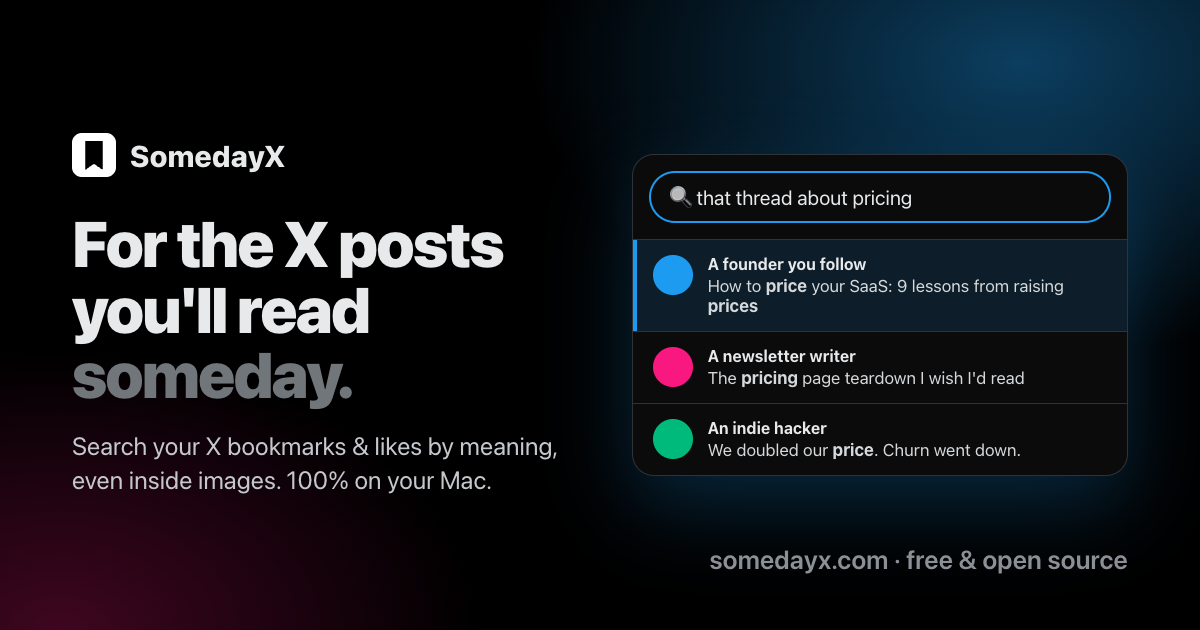
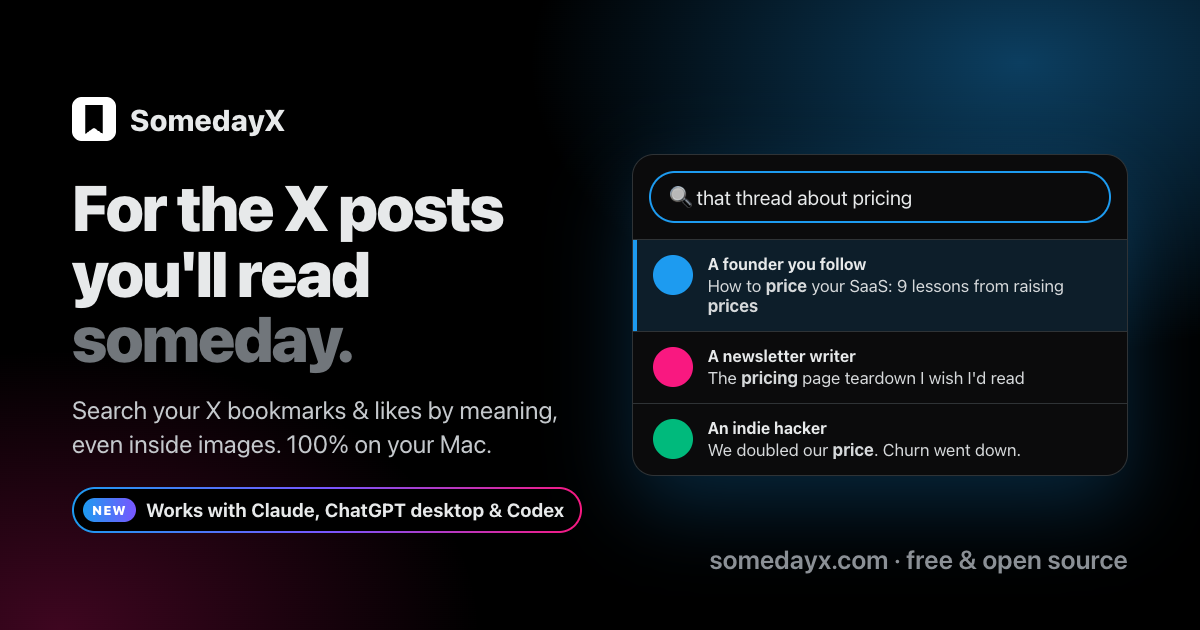
Make AI-app support prominent: hero pill, 'Ask your AI about your bookmarks' section with example chat, nav link, privacy line, home preview card, README

Changed region(s): [[0.0617, 0.1508, 0.4625, 0.6635], [0.0617, 0.6937, 0.4933, 0.8444]]

diff --git a/site/index.html b/site/index.html
@@ -172,6 +172,32 @@
   details[open] summary::after { content: "–"; }
   details p { color: var(--muted); margin-top: 10px; max-width: 46em; }
 
+  /* AI apps */
+  .aipill { display: inline-flex; align-items: center; gap: 10px; margin-top: 18px; max-width: 100%;
+            padding: 8px 14px 8px 8px; border-radius: 999px; font-size: 14.5px; color: var(--text);
+            background: linear-gradient(#000, #000) padding-box, linear-gradient(90deg, var(--blue), #7856ff, #f91880) border-box;
+            border: 1.5px solid transparent; transition: transform .2s; }
+  .aipill:hover { transform: translateY(-1px); }
+  .aipill .new { flex: none; font-size: 11px; font-weight: 900; letter-spacing: .06em; padding: 3px 8px; border-radius: 999px;
+                 background: linear-gradient(90deg, var(--blue), #7856ff); color: #fff; }
+  .aipill b { font-weight: 800; }
+  .apps { display: flex; flex-wrap: wrap; gap: 8px; margin-top: 24px; }
+  .apps span { padding: 7px 13px; border-radius: 999px; background: var(--raised); border: 1px solid var(--line); font-weight: 700; font-size: 14px; }
+  .chat { background: #0b0b0c; border: 1px solid var(--line); border-radius: 18px; padding: 20px; display: grid; gap: 14px;
+          box-shadow: 0 30px 80px rgba(120,86,255,.18); align-self: start; }
+  .chat .you { justify-self: end; max-width: 85%; background: var(--blue); color: #fff; padding: 10px 14px; border-radius: 16px 16px 4px 16px; font-size: 15px; }
+  .chat .tool { justify-self: start; font: 12.5px ui-monospace, SFMono-Regular, Menlo, monospace; color: var(--muted);
+                padding: 5px 10px; border: 1px dashed var(--line); border-radius: 8px; }
+  .chat .tool b { color: var(--blue); font-weight: 600; }
+  .chat .ai { color: #d6d9db; font-size: 15px; }
+  .chat .ai p + p { margin-top: 8px; }
+  .chat .src { display: grid; gap: 6px; margin-top: 10px; }
+  .chat .src span { font-size: 13px; color: var(--muted); padding: 7px 10px; background: var(--raised); border-radius: 10px; }
+  .chat .src b { color: var(--text); }
+  .note { color: var(--muted); font-size: 14.5px; margin-top: 18px; }
+  .note b { color: var(--text); }
+  .more-link { display: inline-block; margin-top: 18px; color: var(--blue); font-weight: 700; }
+
   footer { padding: 50px 0 60px; color: var(--muted); font-size: 14px; border-top: 1px solid #111; }
   footer .wrap { display: flex; justify-content: space-between; gap: 20px; flex-wrap: wrap; }
   footer a { color: var(--text); }
@@ -201,6 +227,7 @@
     <a class="logo" href="#"><svg viewBox="0 0 100 100"><rect width="100" height="100" rx="22" fill="#fff"/><path d="M30 18h40v66L50 70 30 84z" fill="#000"/></svg>SomedayX</a>
     <div class="navlinks">
       <a class="hide" href="#how">How it works</a>
+      <a class="hide" href="#ai">AI apps</a>
       <a class="hide" href="#wrapped">Wrapped</a>
       <a href="#install">Install</a>
       <a class="launch" href="https://github.com/priyank-saarthios-ai/somedayx" data-umami-event="github" data-umami-event-place="nav">GitHub</a>
@@ -221,6 +248,7 @@
         <a class="btn ghost pre" href="#how">See how it works</a>
       </div>
       <p class="fine">Free &amp; open source · 100% on your Mac · no account, no cloud, no tracking</p>
+      <a class="aipill" href="#ai" data-umami-event="ai-pill"><span class="new">NEW</span><span>Works with <b>Claude, ChatGPT desktop, Codex &amp; Cursor</b> →</span></a>
     </div>
 
     <div class="stage" aria-hidden="true">
@@ -246,6 +274,37 @@
       <div class="card"><div class="em">⌥⌥</div><h3>Double-tap Option, anywhere</h3><p>A Spotlight-style panel opens over any app. Type "that thread about pricing" and it's there, even if the post never used those words.</p></div>
       <div class="card"><div class="em">🖼</div><h3>Searches inside images</h3><p>"screenshot of a dashboard", "meme about startups". It finds posts by what's in the picture and reads the text in screenshots.</p></div>
       <div class="card"><div class="em">📰</div><h3>X Articles, fully read</h3><p>Long-form X Articles are searchable word for word, not just their titles. Filter with <code>has:article</code>, <code>from:</code>, <code>year:</code> and more.</p></div>
+    </div>
+  </div>
+</section>
+
+<section id="ai">
+  <div class="wrap two">
+    <div>
+      <div class="kicker">Works with your AI apps</div>
+      <h2>Ask your AI about<br>your bookmarks.</h2>
+      <p class="sub">Claude, ChatGPT and Codex can search everything you've saved on X: by meaning, inside screenshots, across years. Ask for a summary, a reading list or that one post you half remember.</p>
+      <div class="apps"><span>Claude Desktop</span><span>Claude Code</span><span>ChatGPT desktop app</span><span>Codex</span><span>Cursor</span><span>any MCP app</span></div>
+      <ul class="check">
+        <li>One click to connect, from the SomedayX menu bar icon.</li>
+        <li>Off until you turn it on. Read-only: it can't post, sync or change anything.</li>
+        <li>Works even when SomedayX is closed, using the same on-device search.</li>
+      </ul>
+      <p class="note"><b>ChatGPT:</b> the desktop app for Mac and Codex, not chatgpt.com in a browser. Apps you connect read the posts they find, and cloud apps send that text to their servers.</p>
+      <a class="more-link" href="/guides/mcp/" data-umami-event="ai-guide">How to connect your AI app →</a>
+    </div>
+    <div class="chat" aria-label="Example: asking an AI app about your saved posts">
+      <div class="you">What advice have I saved about raising prices?</div>
+      <div class="tool">🔖 <b>somedayx</b> · search_saves("raising prices")</div>
+      <div class="ai">
+        <p>You saved 7 posts on this, from 2020 to this year. The common thread:</p>
+        <p>1. Raise prices for new customers first.<br>2. Give existing customers months of notice, with the reasons.<br>3. Small yearly increases beat one big jump.</p>
+        <div class="src">
+          <span><b>A SaaS newsletter</b> · How to price your SaaS product</span>
+          <span><b>A founder you follow</b> · We raise prices 7% every year. Here's the letter.</span>
+          <span><b>Screenshot you saved</b> · Pricing page teardown</span>
+        </div>
+      </div>
     </div>
   </div>
 </section>
@@ -279,6 +338,7 @@
         <li>No accounts, no servers, no analytics. Read the code: it's all on GitHub.</li>
         <li>Read-only. It never posts, likes or follows anything.</li>
         <li>Everything lives in one folder on your Mac, readable only by you.</li>
+        <li>AI apps see your saves only if you turn that on and connect one. Off by default.</li>
       </ul>
     </div>
     <div id="install">

diff --git a/scripts/build_social.py b/scripts/build_social.py
@@ -77,12 +77,18 @@ def home_card() -> str:
       .row.sel {{ background: rgba(29,155,240,.13); box-shadow: inset 4px 0 0 #1d9bf0; }}
       .av {{ width: 40px; height: 40px; border-radius: 50%; flex: none; }}
       .n {{ font-size: 16px; font-weight: 700; }} .t {{ font-size: 17px; color: #d6d9db; margin-top: 3px; }}
+      .ai {{ display: inline-flex; gap: 10px; align-items: center; margin-top: 26px; padding: 9px 16px 9px 9px; border-radius: 999px;
+            font-size: 19px; font-weight: 700; color: #e7e9ea; border: 2px solid transparent;
+            background: linear-gradient(#000, #000) padding-box, linear-gradient(90deg, #1d9bf0, #7856ff, #f91880) border-box; }}
+      .ai .new {{ font-size: 13px; font-weight: 900; letter-spacing: 1px; padding: 4px 9px; border-radius: 999px;
+                 background: linear-gradient(90deg, #1d9bf0, #7856ff); color: #fff; }}
     </style>
     <div class='frame'>
       <div>
         <div class='logo'>{LOGO_SVG.format(bg='#fff', fg='#000')}SomedayX</div>
         <h1>For the X posts you'll read <span>someday.</span></h1>
         <div class='sub'>Search your X bookmarks &amp; likes by meaning, even inside images. 100% on your Mac.</div>
+        <div class='ai'><span class='new'>NEW</span>Works with Claude, ChatGPT desktop &amp; Codex</div>
       </div>
       <div class='panel'><div class='bar'>🔍 that thread about pricing</div>{row_html}</div>
       <div class='url'>somedayx.com · free &amp; open source</div>

diff --git a/README.md b/README.md
@@ -7,6 +7,7 @@
 - **Double-tap ⌥ anywhere** to open search. Type what you remember ("that thread about pricing") and SomedayX finds it, even when the words don't match.
 - **Search inside images.** "screenshot of a dashboard" finds posts by what's *in* the picture, and text in screenshots and memes is searchable too.
 - **X Articles included.** The full text of saved X Articles is searchable, not just their titles.
+- **Works with your AI apps.** Ask Claude, the ChatGPT desktop app, Codex or Cursor about your saves over [MCP](#use-it-from-ai-apps-mcp): read-only, off until you turn it on.
 - **SomedayX Wrapped.** A shareable card that roasts your saving habits ("🤖 AI agent maximalist · 549 videos in watch later").
 - **Your saves, your Mac.** Google's Gemma models run locally through llama.cpp. Nothing you save is ever sent anywhere.
 
